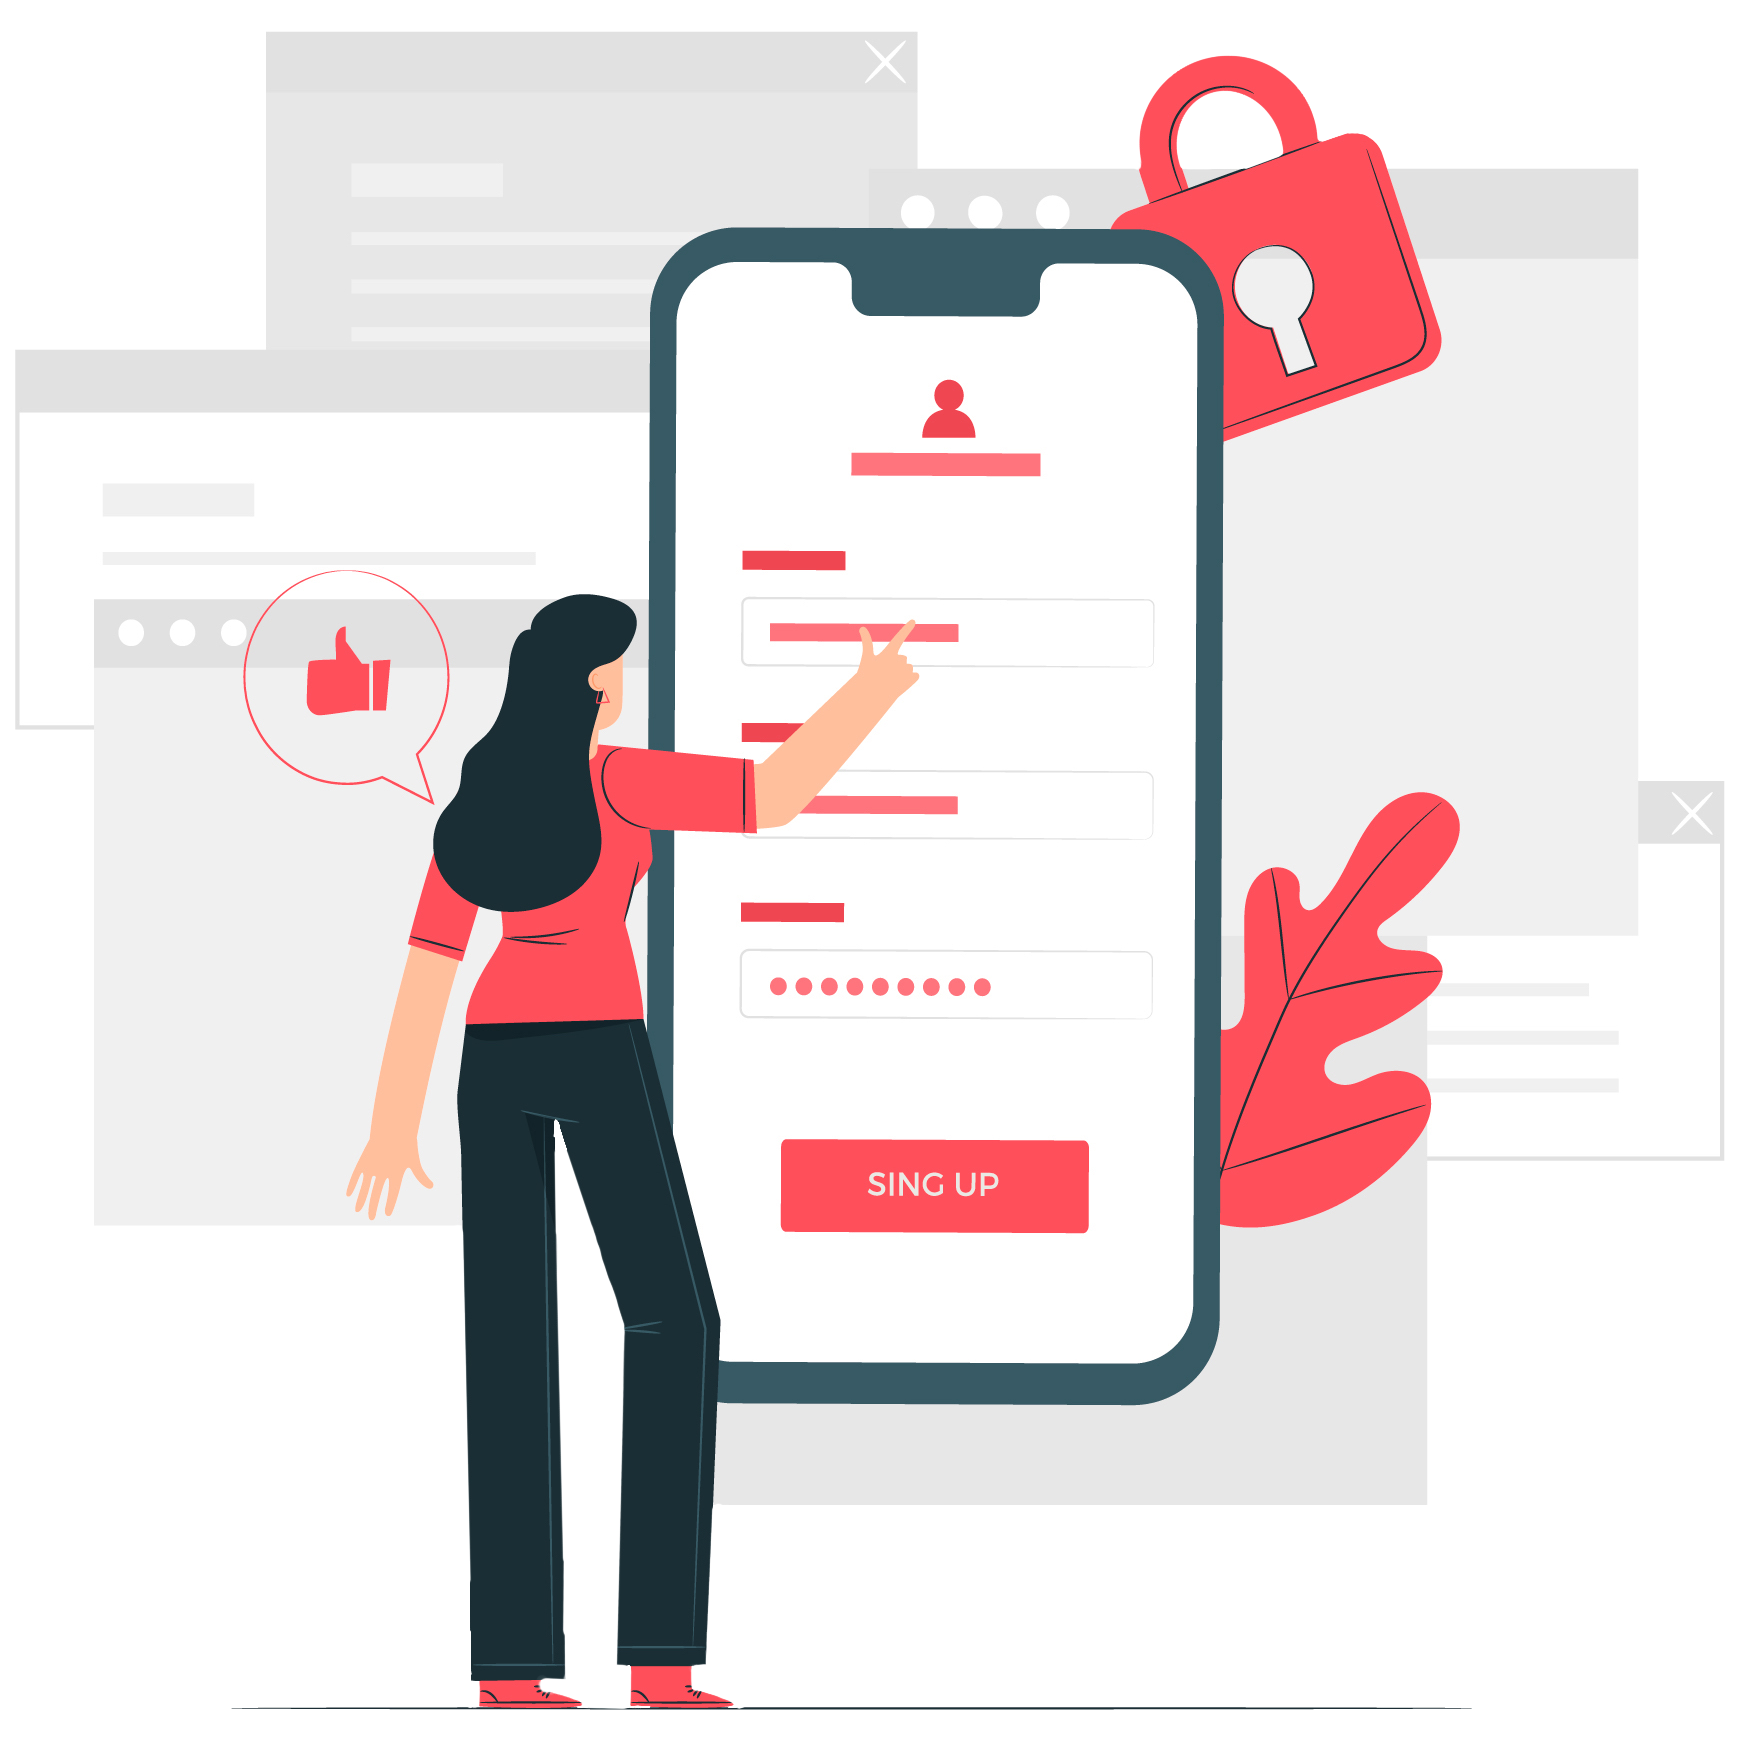
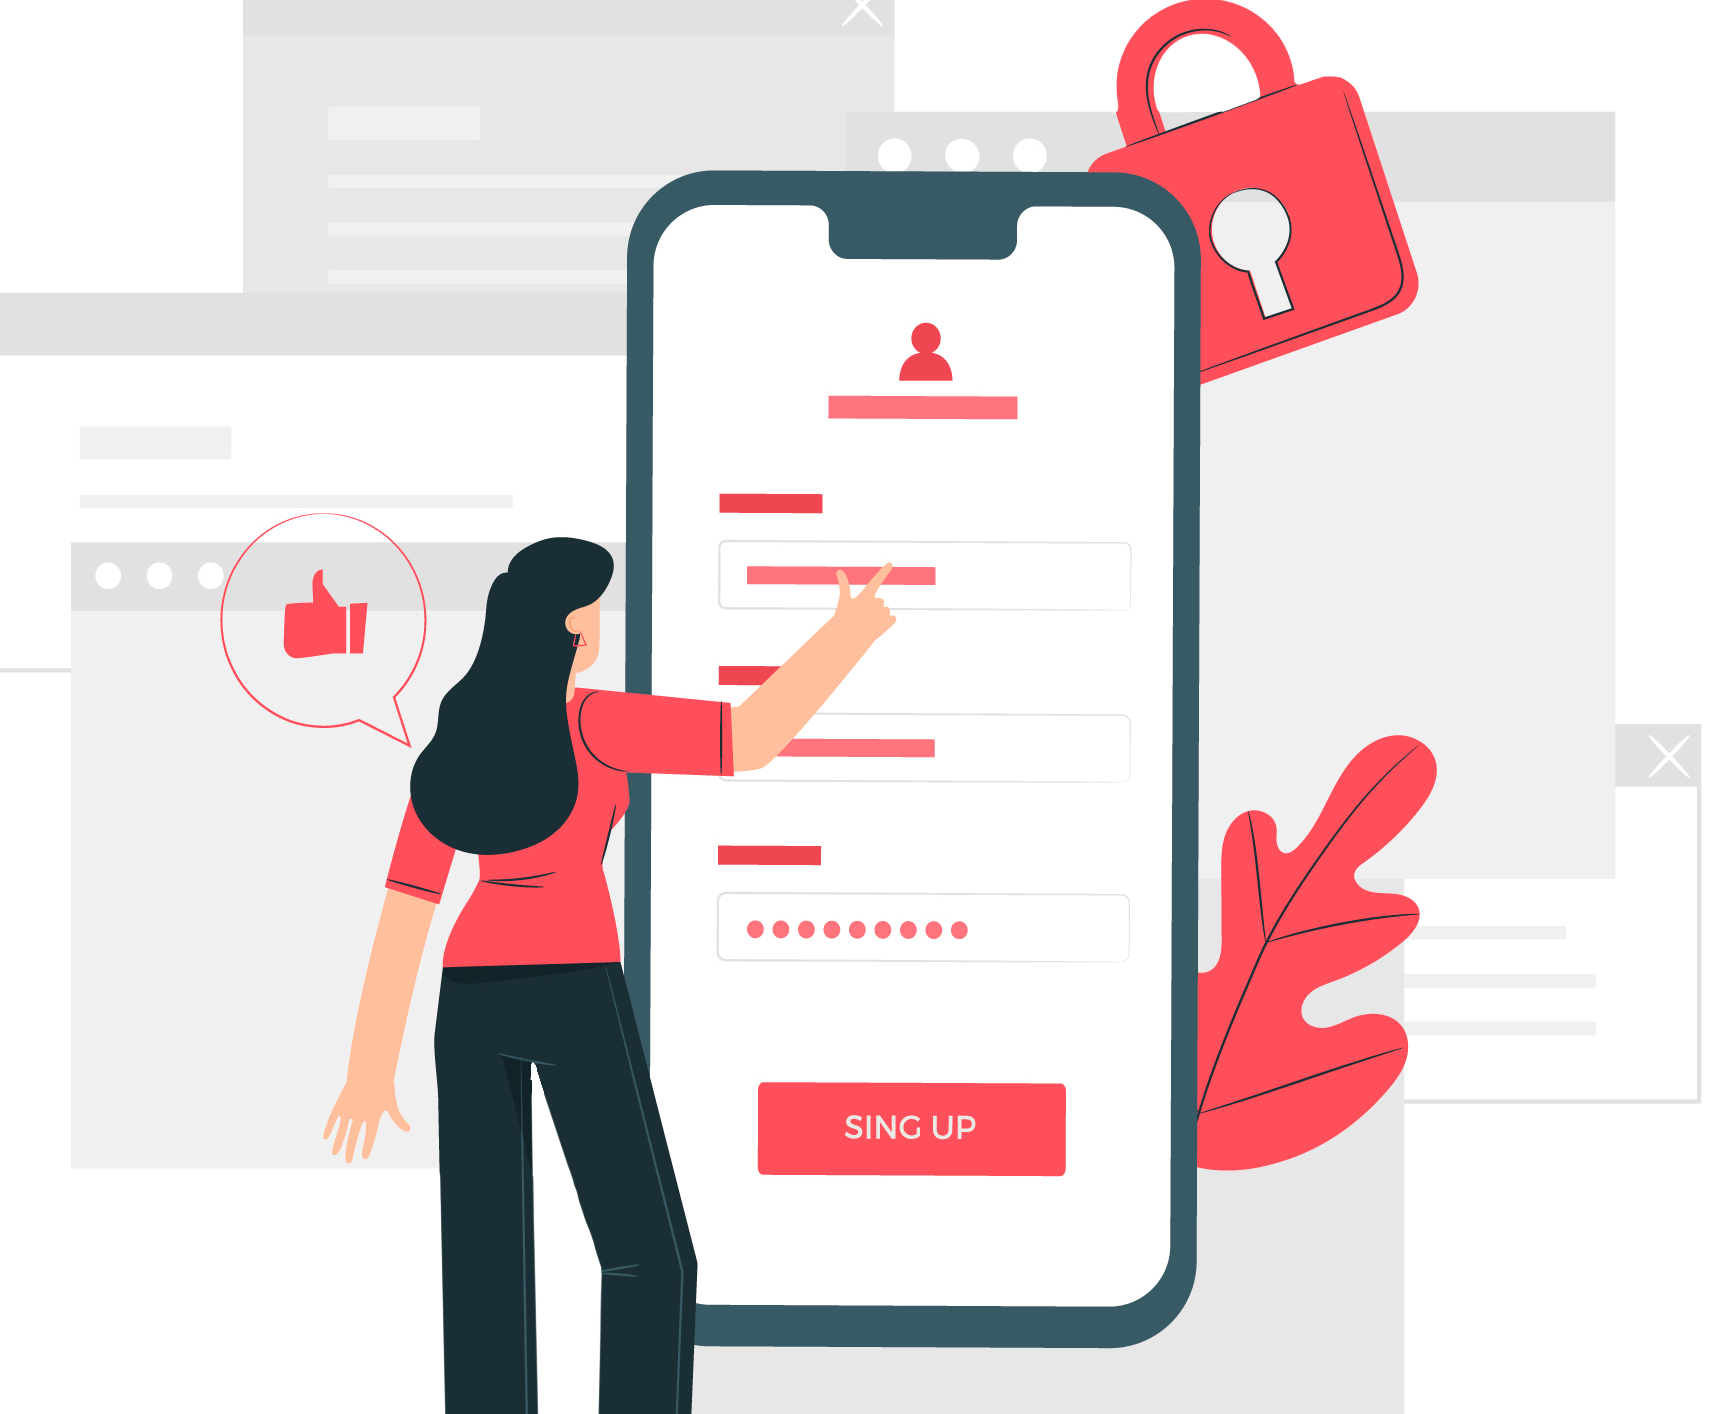
egit showscore

diff --git a/Vircade/lib/Signup.dart b/Vircade/lib/Signup.dart
@@ -88,26 +88,28 @@ class _SignupState extends State<Signup> {
       body: Stack(
         fit: StackFit.expand,
         children: <Widget>[
-          showPic(),
           SingleChildScrollView(
             child: Padding(
-              padding: EdgeInsets.only(left: 28.0, right: 28.0, top: 20.0),
+              padding: EdgeInsets.only(left: 28.0, right: 28.0, top: 10.0),
               child: Column(
                 children: <Widget>[
                   Row(
                     children: <Widget>[
                       Image.asset(
                         "assets/logo.png",
-                        width: ScreenUtil().setWidth(110),
-                        height: ScreenUtil().setHeight(110),
+                        width: MediaQuery.of(context).size.width * 0.15,
+                        height: MediaQuery.of(context).size.height * 0.15,
                       ),
                     ],
                   ),
                   showAlert(),
-                  space(),
                   Container(
+                    child: Column(
+                      children:<Widget>[
+                        showPic(),
+                        Container(
                     width: double.infinity,
-                    height: ScreenUtil().setHeight(550),
+                    height: ScreenUtil().setHeight(500),
                     decoration: BoxDecoration(
                       color: Colors.white,
                       borderRadius: BorderRadius.circular(8.0),
@@ -132,13 +134,15 @@ class _SignupState extends State<Signup> {
                           children: buildInputs(),
                         ),
                       ),
-                    ),
-                  ),
+                    )),
+                  ]),
+    ),
                   SizedBox(height: ScreenUtil().setHeight(40)),
                   Row(
                     mainAxisAlignment: MainAxisAlignment.spaceBetween,
                     children: buildButtons(),
                   ),
+                  SizedBox(height: ScreenUtil().setHeight(40)),
                 ],
               ),
             ),
@@ -200,16 +204,11 @@ class _SignupState extends State<Signup> {
     } else {
       pic = "assets/login.png";
     }
-    return Column(
-      crossAxisAlignment: CrossAxisAlignment.end,
-      children: <Widget>[
-        Padding(
-          padding: EdgeInsets.only(top: 30.0),
-          child: Image.asset(pic),
-        ),
-        Expanded(child: Container()),
-      ],
-    );
+    return  Image.asset(
+            pic,
+            width: MediaQuery.of(context).size.width * 0.8,
+//            height: MediaQuery.of(context).size.height * 0.9
+          );
   }
 
   List<Widget> buildInputs() {

diff --git a/Vircade/lib/showScore.dart b/Vircade/lib/showScore.dart
@@ -14,27 +14,33 @@ class _ShowScoreState extends State<ShowScore> {
   final databaseReference = FirebaseDatabase.instance.reference();
   int highScore;
   String scoreStatus;
+  String scoreData;
   @override
   void initState() {
     databaseReference.child("games").child(widget.gameID).once().then((DataSnapshot snapshot){
       Map<dynamic, dynamic> values=snapshot.value;
-      print(values["highScore"]);
-      highScore = values["highScore"];
-      if(widget.score <  highScore){
-        scoreStatus = "LOSE";
-      }else{
-        scoreStatus = "WIN";
-      }
+      print("highScore: "+ values["highScore"].toString());
+      print("widgetScore: "+ widget.score.toString());
+      setState(() {
+        scoreData = widget.score.toString();
+        highScore = values["highScore"];
+        if(widget.score <  highScore){
+          scoreStatus = "LOSE";
+        }else if(widget.score ==  highScore){
+          scoreStatus = "WIN";
+        }
+      });
     });
     super.initState();
   }
 
   @override
   Widget build(BuildContext context) {
-    String scoreData = widget.score.toString();
+    print("scoreData: "+ scoreData);
+    print("scorestatus"+ scoreStatus);
     return Scaffold(
         backgroundColor: Color(0xFF091F36),
-        body: new Center(child: singleM(scoreData,scoreStatus)));
+        body: new Center(child: singleM(scoreData ,scoreStatus.toString())));
 //          child: Column(
 //            mainAxisAlignment: MainAxisAlignment.center,
 //            children: <Widget>[
@@ -193,6 +199,7 @@ class _ShowScoreState extends State<ShowScore> {
   }
   Widget singleM(String scoreData, String scoreStatus){
     if(widget.status == 'singleMode'){
+      print("singleMode");
       return Column(
         mainAxisAlignment: MainAxisAlignment.center,
         children: <Widget>[
@@ -347,7 +354,8 @@ class _ShowScoreState extends State<ShowScore> {
           SizedBox(height: 20.0),
         ],
       );
-    }else{
+    }else if(widget.status == 'battleMode'){
+      print("battleMode");
       return Column(
         mainAxisAlignment: MainAxisAlignment.center,
         children: <Widget>[
@@ -367,7 +375,7 @@ class _ShowScoreState extends State<ShowScore> {
           Text(
             scoreStatus,
             style: TextStyle(
-                color: Colors.yellow,
+                color: scoreStatus == "WIN"?Colors.greenAccent : Colors.redAccent,
                 height: 1.0,
                 fontSize: 60,
                 fontFamily: "Poppins-Bold"),
